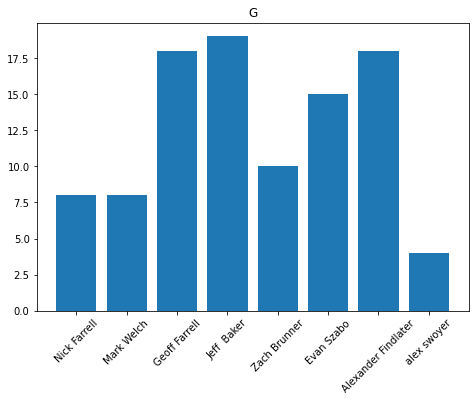
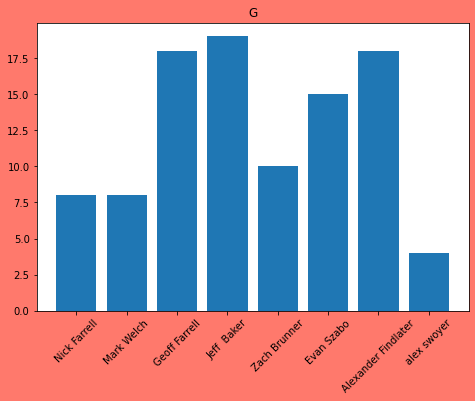
update plot backgrounds

diff --git a/FHL-league-stats-week-2/FHL-league-stats-week-2.md b/FHL-league-stats-week-2/FHL-league-stats-week-2.md
@@ -6,18 +6,30 @@
 !pip install pandas
 ```
 
-    Requirement already satisfied: espn_api in /opt/conda/lib/python3.8/site-packages (0.18.4)
+    Collecting espn_api
+      Downloading espn_api-0.18.4.tar.gz (23 kB)
     Requirement already satisfied: requests<3.0.0,>=2.0.0 in /opt/conda/lib/python3.8/site-packages (from espn_api) (2.26.0)
-    Requirement already satisfied: certifi>=2017.4.17 in /opt/conda/lib/python3.8/site-packages (from requests<3.0.0,>=2.0.0->espn_api) (2021.5.30)
-    Requirement already satisfied: idna<4,>=2.5 in /opt/conda/lib/python3.8/site-packages (from requests<3.0.0,>=2.0.0->espn_api) (3.1)
     Requirement already satisfied: urllib3<1.27,>=1.21.1 in /opt/conda/lib/python3.8/site-packages (from requests<3.0.0,>=2.0.0->espn_api) (1.26.6)
+    Requirement already satisfied: idna<4,>=2.5 in /opt/conda/lib/python3.8/site-packages (from requests<3.0.0,>=2.0.0->espn_api) (3.1)
     Requirement already satisfied: charset-normalizer~=2.0.0 in /opt/conda/lib/python3.8/site-packages (from requests<3.0.0,>=2.0.0->espn_api) (2.0.0)
+    Requirement already satisfied: certifi>=2017.4.17 in /opt/conda/lib/python3.8/site-packages (from requests<3.0.0,>=2.0.0->espn_api) (2021.5.30)
+    Building wheels for collected packages: espn-api
+      Building wheel for espn-api (setup.py) ... [?25ldone
+    [?25h  Created wheel for espn-api: filename=espn_api-0.18.4-py3-none-any.whl size=43177 sha256=1f1ed63c1850fd6346f2431172edac865a91af39f42b321282d6ef749da1954c
+      Stored in directory: /root/.cache/pip/wheels/72/0f/a2/29fdea68717a62a28dde276908e1c6a2020703a67cfea48195
+    Successfully built espn-api
+    Installing collected packages: espn-api
+    Successfully installed espn-api-0.18.4
     [33mWARNING: Running pip as the 'root' user can result in broken permissions and conflicting behaviour with the system package manager. It is recommended to use a virtual environment instead: https://pip.pypa.io/warnings/venv[0m
-    Requirement already satisfied: pandas in /opt/conda/lib/python3.8/site-packages (1.3.4)
-    Requirement already satisfied: pytz>=2017.3 in /opt/conda/lib/python3.8/site-packages (from pandas) (2021.1)
-    Requirement already satisfied: numpy>=1.17.3 in /opt/conda/lib/python3.8/site-packages (from pandas) (1.21.2)
+    Collecting pandas
+      Downloading pandas-1.3.4-cp38-cp38-manylinux_2_17_x86_64.manylinux2014_x86_64.whl (11.5 MB)
+    [K     |████████████████████████████████| 11.5 MB 2.8 MB/s eta 0:00:01    |██████████████████▎             | 6.6 MB 2.8 MB/s eta 0:00:02     |█████████████████████▋          | 7.8 MB 2.8 MB/s eta 0:00:02
+    [?25hRequirement already satisfied: numpy>=1.17.3 in /opt/conda/lib/python3.8/site-packages (from pandas) (1.21.2)
     Requirement already satisfied: python-dateutil>=2.7.3 in /opt/conda/lib/python3.8/site-packages (from pandas) (2.8.2)
+    Requirement already satisfied: pytz>=2017.3 in /opt/conda/lib/python3.8/site-packages (from pandas) (2021.1)
     Requirement already satisfied: six>=1.5 in /opt/conda/lib/python3.8/site-packages (from python-dateutil>=2.7.3->pandas) (1.16.0)
+    Installing collected packages: pandas
+    Successfully installed pandas-1.3.4
     [33mWARNING: Running pip as the 'root' user can result in broken permissions and conflicting behaviour with the system package manager. It is recommended to use a virtual environment instead: https://pip.pypa.io/warnings/venv[0m
 
 
@@ -55,6 +67,7 @@ df_stats = pd.DataFrame(team_stats).T
 ```python
 for stat in ["G", "A", "PPP", "W", "SOG"]:
     fig = plt.figure()
+    fig.set_facecolor('xkcd:salmon')
     ax = fig.add_axes([0,0,1,1])
     owners = list(df_stats.index)
     stats = df_stats[stat]
